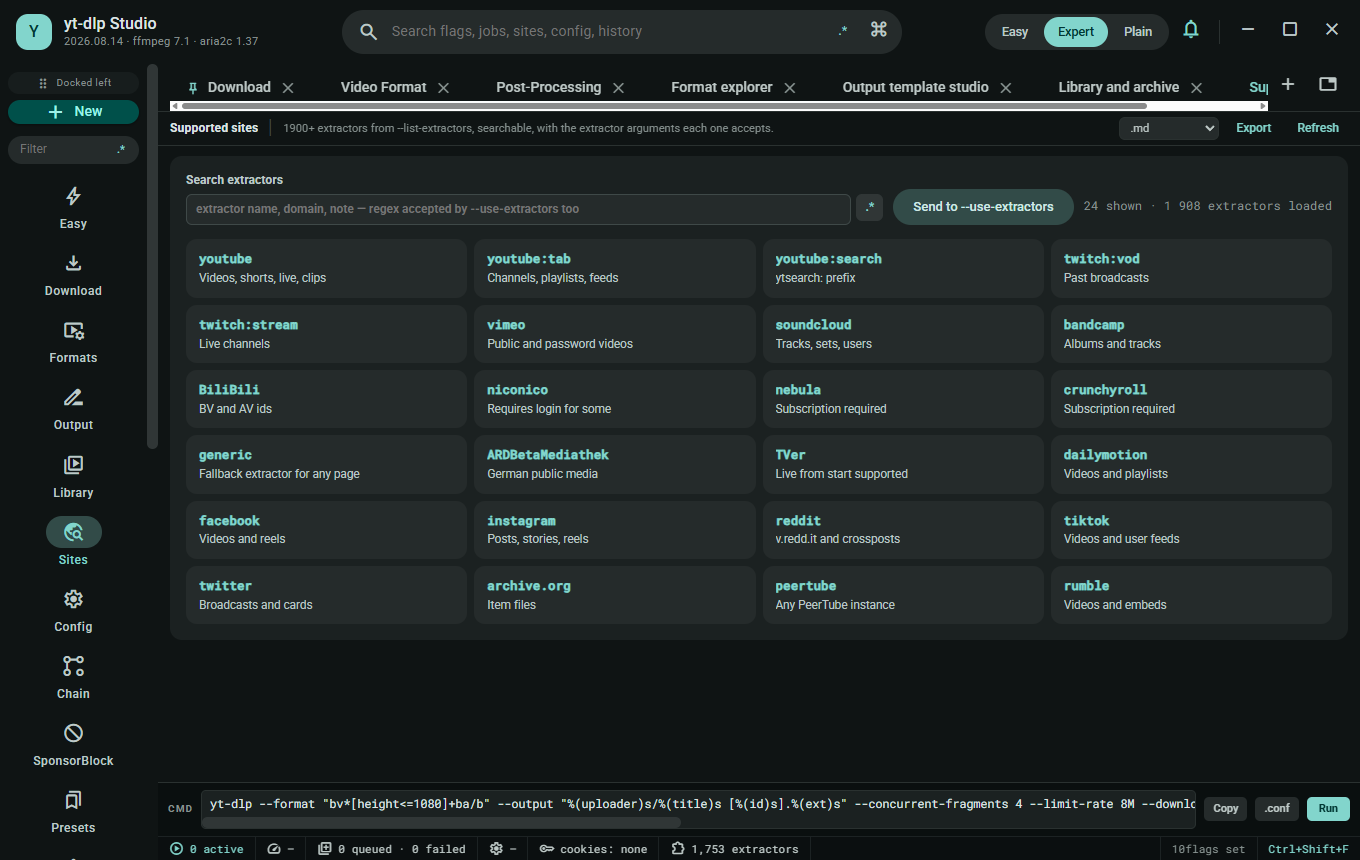
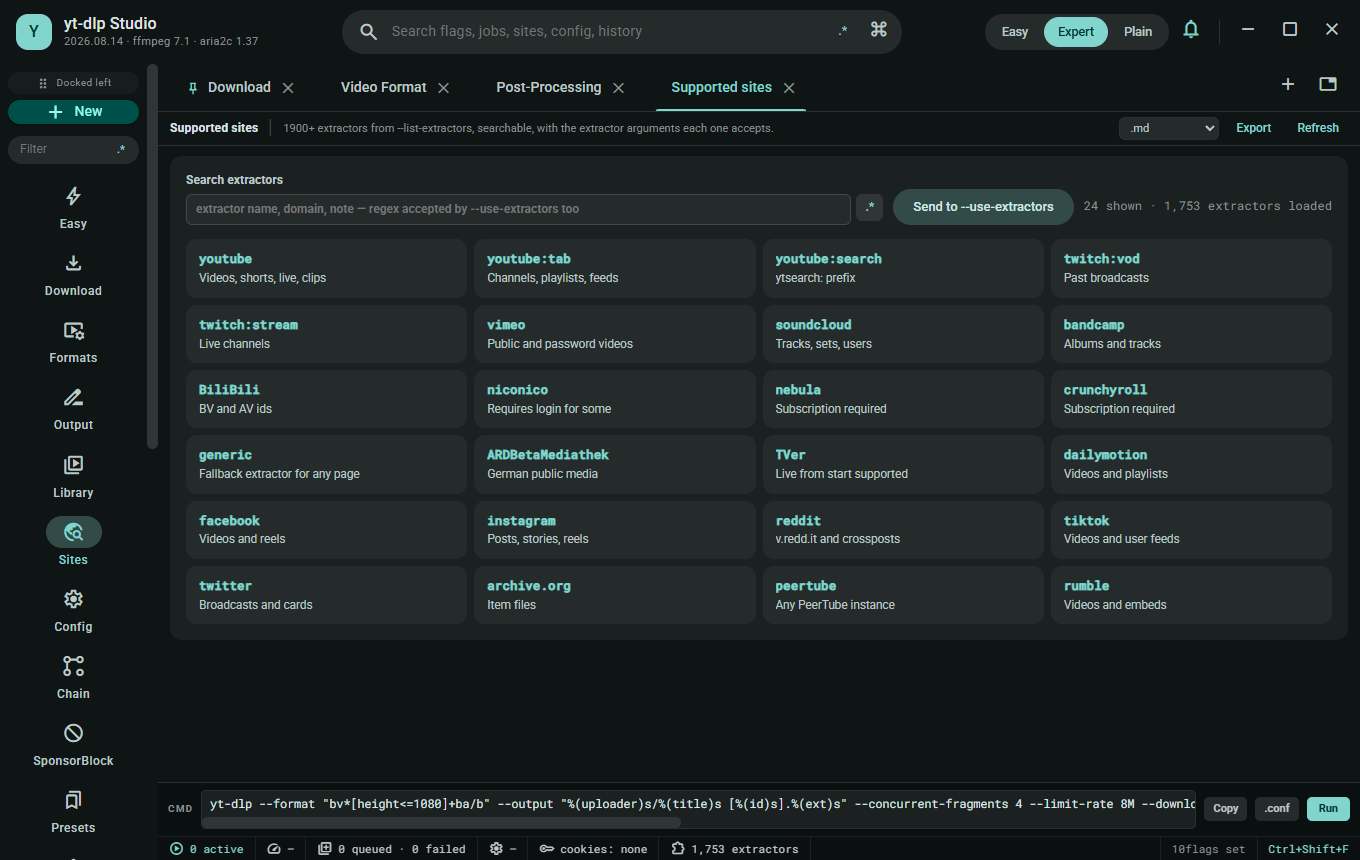
Recapture the supported-sites surface now that its count is real
The image in the gallery showed the earlier hardcoded "1 908 extractors loaded",
and a later attempt captured the app mid-breakage with a syntax error banner
across it. It now reads "24 shown · 1,753 extractors loaded" — the real filtered
row count and the real total from the bundled binary, matching the status bar in
the same frame.

張圖影過兩次都唔啱：第一次個數係作嘅，第二次影到個 app 壞咗嗰陣。第三次先啱。

Changed region(s): [[0.1235, 0.0907, 0.9574, 0.1512], [0.9574, 0.1209, 0.9882, 0.1512], [0.8647, 0.2116, 0.8956, 0.2419]]

diff --git a/app/src/renderer/index.html b/app/src/renderer/index.html
@@ -579,7 +579,11 @@
                   <div style="display:flex;gap:10px;align-items:end;margin-bottom:14px;flex-wrap:wrap">
                     <div style="flex:1;min-width:250px">
                       <h2 style="font-size:11px;margin:0 0 3px;letter-spacing:.9px;text-transform:uppercase;color:#bec9c7;font-weight:800">-F available formats</h2>
-                      <p style="margin:0;color:#bec9c7">Big Buck Bunny 4K remaster · aqz-KE-bpKQ · right-click a row for per-format actions</p>
+                      <p style="margin:0;color:#bec9c7">{{ formatProbeStatusText }}</p>
+                      <div style="display:flex;gap:5px;margin-top:8px">
+                        <input value="{{ formatProbeUrl }}" onChange="{{ setFormatProbeUrl }}" placeholder="Paste a URL to list its real formats" spellcheck="false" style="flex:1;min-width:220px;background:#252b2b;border:1px solid #3f4948;border-radius:6px;color:#dee4e3;padding:6px 9px;font-family:'Roboto Mono',Consolas,monospace;font-size:12px" />
+                        <button onClick="{{ runFormatProbe }}" style="padding:6px 12px;border-radius:6px;font-weight:700;background:#303636;color:#82d5cc;font-size:11.5px;white-space:nowrap">-F list formats</button>
+                      </div>
                     </div>
                     <label style="display:grid;gap:5px;font-weight:700;font-size:12px;color:#bec9c7;flex:0 0 340px">Search formats
                       <div style="display:flex;gap:5px">
@@ -588,6 +592,7 @@
                       </div>
                     </label>
                   </div>
+                  <sc-if value="{{ formatHasResults }}" hint-placeholder-val="{{ true }}">
                   <div style="display:grid;grid-template-columns:78px 62px 118px 66px 92px 108px 108px minmax(0,1fr);gap:10px;padding:0 12px 8px;color:#889391;font-size:10.5px;font-weight:800;letter-spacing:.7px;font-family:'Roboto Mono',Consolas,monospace">
                     <div>ID</div><div>EXT</div><div>RESOLUTION</div><div>FPS</div><div>FILESIZE</div><div>TBR</div><div>PROTO</div><div>VCODEC / ACODEC</div>
                   </div>
@@ -605,6 +610,7 @@
                       </div>
                     </sc-for>
                   </div>
+                  </sc-if>
                 </section>
               </div>
             </sc-if>
@@ -2030,6 +2036,10 @@ class Component extends DCLogic {
       bridge.history.status().then(st => this.setState({ historyStatus: st })).catch(() => {});
       bridge.history.listCommits().then(commits => this.setState({ historyCommits: commits }))
         .catch(err => this.toast('History unavailable', String(err && err.message ? err.message : err)));
+      // Feeds historySummary's real record count / known-size total / real
+      // earliest record date. Failure is silent (no toast) — listCommits
+      // above already reports connectivity problems once.
+      bridge.history.getFullSnapshot().then(snapshot => this.setState({ historySnapshot: snapshot })).catch(() => {});
     };
     reload();
     this._historyReloadTimer = setInterval(() => { if (this.state.historyLive) reload(); }, 5000);
@@ -2059,7 +2069,54 @@ class Component extends DCLogic {
   // design's fixed '14.6MiB/s' demo figure. Returns a dash when nothing
   // is actually downloading, since a rate of 0.0MiB/s still implies
   // something is being measured.
-  _totalRateLabel(activeJobs) {
+  // Real-truth wiring (scripts/wire-truth.mjs): formats a byte count for
+  // display, matching _totalRateLabel's unit style but with no '/s' suffix.
+  // Returns a dash for null/undefined/zero — a measured size of 0 B is a
+  // different claim than "unknown", and every history record here either
+  // has a real measured size or none at all.
+  _formatBytesLabel(bytes) {
+    if (bytes == null || !isFinite(bytes) || bytes <= 0) return '—';
+    if (bytes >= 1024 * 1024 * 1024) return (bytes / 1024 / 1024 / 1024).toFixed(1) + 'GiB';
+    if (bytes >= 1024 * 1024) return (bytes / 1024 / 1024).toFixed(1) + 'MiB';
+    if (bytes >= 1024) return (bytes / 1024).toFixed(1) + 'KiB';
+    return Math.round(bytes) + 'B';
+  }
+
+  // Format Explorer wiring: the design's -F table was 11 fabricated,
+  // plausible-looking rows for a video nobody downloaded. These three
+  // helpers read window.ytdlpStudio.probes.listFormats() (a real bundled
+  // yt-dlp run, app/src/main/probes.ts) via state.formatProbe (populated by
+  // _wire.probeFormats below), and give the table honest empty / loading /
+  // error / real states instead of a permanent fake catalogue.
+  _formatProbeHasResults(s) {
+    const p = s.formatProbe;
+    return !!(p && p.result && p.result.formats && p.result.formats.length);
+  }
+  _formatProbeStatusText(s) {
+    const p = s.formatProbe;
+    if (!s.formatProbeUrl) return 'Paste a URL above and choose -F list formats to see its real, currently-available formats.';
+    if (p && p.loading) return 'Asking yt-dlp for the real formats\u2026';
+    if (p && p.error) return 'Could not list formats: ' + p.error;
+    if (p && p.result && !this._formatProbeHasResults(s)) return 'yt-dlp reported no formats for this URL.';
+    if (this._formatProbeHasResults(s)) return s.formatProbeUrl;
+    return 'Choose -F list formats to check this URL\u2019s real, currently-available formats.';
+  }
+  _formatProbeRows(s) {
+    const p = s.formatProbe;
+    if (!p || !p.result || !p.result.formats) return [];
+    return p.result.formats.map(f => {
+      const resLabel = f.resolution || (f.channels ? 'audio only' : '—');
+      const codecParts = [f.vcodec, f.acodec].filter(v => v && v !== 'none');
+      const codecs = codecParts.length ? codecParts.join(' / ') + (f.note ? ' \u00b7 ' + f.note : '') : (f.note || '—');
+      return {
+        id: f.formatId, ext: f.ext || '—', res: resLabel, fps: f.fps != null ? String(f.fps) : '—',
+        size: f.fileSize || '—', tbr: f.tbr || '—', proto: f.protocol || '—', codecs,
+        searchText: [f.formatId, f.ext, resLabel, f.protocol, f.vcodec, f.acodec, f.note].filter(Boolean).join(' '),
+      };
+    });
+  }
+
+    _totalRateLabel(activeJobs) {
     const parse = (r) => {
       const m = /([d.]+)s*([KMG]?)i?B/s/i.exec(String(r || ''));
       if (!m) return 0;
@@ -2448,6 +2505,28 @@ class Component extends DCLogic {
           });
         }, 500);
       },
+
+      probeFormats(comp, url) {
+        const bridge = window.ytdlpStudio;
+        const trimmed = (url || '').trim();
+        if (!bridge || !bridge.probes) { comp.toast('Not connected', 'window.ytdlpStudio is missing'); return; }
+        if (!trimmed) { comp.setState({ formatProbe: null }); return; }
+        const requestId = 'formats-' + Date.now() + '-' + Math.random().toString(36).slice(2, 7);
+        comp.setState({ formatProbe: { loading: true, result: null, error: null } });
+        bridge.probes.listFormats(requestId, trimmed).then(res => {
+          if (!res || !res.ok) {
+            comp.setState({ formatProbe: { loading: false, result: null, error: (res && res.error && res.error.message) || 'Unknown error' } });
+            return;
+          }
+          if (!res.parsed || !res.data) {
+            comp.setState({ formatProbe: { loading: false, result: null, error: 'Could not parse yt-dlp\'s output' } });
+            return;
+          }
+          comp.setState({ formatProbe: { loading: false, result: res.data, error: null } });
+        }).catch(err => {
+          comp.setState({ formatProbe: { loading: false, result: null, error: String(err && err.message ? err.message : err) } });
+        });
+      },
     };
   }
 
@@ -2479,6 +2558,7 @@ class Component extends DCLogic {
     formatExpr: 'bv*[height<=1080][vcodec^=avc1]+ba[acodec^=mp4a]/b',
     sortExpr: 'res:1080,fps,hdr:12,vcodec:h264',
     filterField: 'height', filterOp: '<=', filterValue: '1080', atomSearch: '',
+    formatProbeUrl: '', formatProbe: null,
     formatSearch: '', outTemplate: '%(uploader)s/%(playlist|)s/%(title)s [%(id)s].%(ext)s',
     fieldSearch: '', librarySearch: '', siteSearch: '', configSearch: '', historySearch: '',
     historySurf: 'all', historyKind: 'All', historyPinnedOnly: false, historySel: {}, historyOpen: 'h2',
@@ -3468,14 +3548,30 @@ class Component extends DCLogic {
     }).filter(Boolean);
     const surfs = ['all'].concat(recs.map(r => r.surf).filter((v, i, a) => a.indexOf(v) === i));
     const kindCount = k => k === 'Changes' ? recs.filter(r => r.kind === 'change' || r.kind === 'auth').length : k === 'Runs' ? recs.filter(r => r.kind === 'run').length : k === 'Errors' ? recs.filter(r => r.kind === 'error').length : recs.filter(r => r.kind === 'destructive').length;
-    const sparkCounts = [1, 0, 2, 4, 0, 3, 2, 5, 0, 2, 3, 0, 4, 7];
+    const sparkDays = Array.from({ length: 14 }, (_, i) => {
+      const d = new Date(); d.setHours(0, 0, 0, 0); d.setDate(d.getDate() - (13 - i));
+      return d;
+    });
+    const sparkCounts = sparkDays.map(dayStart => {
+      const dayEnd = new Date(dayStart); dayEnd.setDate(dayEnd.getDate() + 1);
+      return (s.historyCommits || []).filter(c => c.timestamp >= dayStart.getTime() && c.timestamp < dayEnd.getTime()).length;
+    });
     const selCount = Object.keys(sel).length;
     const keep = s.historyKeep || '90 days';
     return {
       historySearch: s.historySearch, setHistorySearch: e => this.setState({ historySearch: e.target.value }),
       openRegexHistory: () => this.setState({ dialog: 'regex', regexTarget: 'history' }),
       clearHistory: () => this.askDestructive('Clear the local history?', 'Every download record is marked removed. This adds a new append-only entry — the earlier records are not erased and stay recoverable, they just stop showing in this list.', () => this._wire.historyClearAll(this)),
-      historySummary: '1,247 records · 482 KiB on disk · since 3 May 2026',
+      historySummary: (() => {
+        if (historyUnavailable) return 'History unavailable' + ((s.historyStatus && s.historyStatus.reason) ? ' — ' + s.historyStatus.reason : '');
+        const historyRecords = s.historySnapshot ? Object.values(s.historySnapshot) : [];
+        if (!historyRecords.length) return 'No download records yet';
+        const sizedBytes = historyRecords.reduce((sum, r) => sum + (r.sizeBytes || 0), 0);
+        const earliestAt = Math.min.apply(null, historyRecords.map(r => r.addedAt));
+        return historyRecords.length + (historyRecords.length === 1 ? ' record' : ' records') +
+          ' · ' + this._formatBytesLabel(sizedBytes) + ' on disk' +
+          ' · since ' + new Date(earliestAt).toLocaleDateString();
+      })(),
       historyLiveGlyph: s.historyLive ? 'pause' : 'play_arrow', historyLiveLabel: s.historyLive ? 'Live' : 'Paused',
       historyLiveColor: s.historyLive ? '#82d5cc' : '#febc2e',
       toggleHistoryLive: () => this.setState(st => ({ historyLive: !st.historyLive })),
@@ -3484,7 +3580,7 @@ class Component extends DCLogic {
         this._exportSerialize(s.exportFormat, { title: 'History export — everything', scope: 'all ' + recs.length + ' record(s), search and filters ignored' },
           ['time', 'surface', 'kind', 'text'], recs.map(rr => ({ time: rr.time, surface: rr.surf, kind: rr.kind, text: rr.text }))),
         s.exportFormat),
-      historySpark: sparkCounts.map((c, i) => ({ h: Math.max(8, Math.round(c / 7 * 100)) + '%', color: i === 13 ? '#82d5cc' : c === 0 ? '#2a3130' : '#4d5757', title: c + (c === 1 ? ' change · ' : ' changes · ') + (7 + i) + ' Aug' })),
+      historySpark: sparkCounts.map((c, i) => ({ h: Math.max(8, Math.round(c / 7 * 100)) + '%', color: i === 13 ? '#82d5cc' : c === 0 ? '#2a3130' : '#4d5757', title: c + (c === 1 ? ' change · ' : ' changes · ') + sparkDays[i].toLocaleDateString(undefined, { day: 'numeric', month: 'short' }) })),
       historySurfChips: surfs.map(sf => { const n = sf === 'all' ? recs.length : recs.filter(r => r.surf === sf).length; const active = surfFilter === sf; return { label: (sf === 'all' ? 'All' : sf) + ' · ' + n, bg: active ? '#324b48' : '#252b2b', fg: active ? '#cfe9e5' : '#889391', click: () => this.setState({ historySurf: sf }) }; }),
       historyKindChips: ['All', 'Changes', 'Runs', 'Errors', 'Destructive'].map(k => { const active = kindFilter === k; return { label: k === 'All' ? 'Every kind' : k + ' · ' + kindCount(k), bg: active ? '#324b48' : '#252b2b', fg: active ? '#cfe9e5' : '#889391', click: () => this.setState({ historyKind: k }) }; }),
       historyPinBg: s.historyPinnedOnly ? '#3d3a24' : '#252b2b', historyPinFg: s.historyPinnedOnly ? '#febc2e' : '#889391',
@@ -4043,15 +4139,23 @@ class Component extends DCLogic {
       easySponsor: s.easySponsor, toggleEasySponsor: () => this.setState(st => ({ easySponsor: !st.easySponsor })),
       easyButtonLabel: kind === 'channel' ? 'Download channel' : kind === 'playlist' ? 'Download playlist' : 'Download',
       easyDownload: () => {
-        const title = kind === 'channel' ? 'Blender Foundation — ' + (s.easyScope === 'all' ? 'all 312' : s.easyLimit) + ' videos' : 'Big Buck Bunny 4K remaster';
+        const knownEntryCount = s.easyProbe && s.easyProbe.result && s.easyProbe.result.entryCount != null ? s.easyProbe.result.entryCount : null;
+        const scopeLabel = s.easyScope === 'all' ? (knownEntryCount != null ? 'all ' + knownEntryCount : 'all (count unknown)') : s.easyLimit;
+        const title = kind === 'channel' ? 'Blender Foundation — ' + scopeLabel + ' videos' : 'Big Buck Bunny 4K remaster';
         this._wire.easyDownload(this, s, title);
       },
       goExpert: () => this.setState({ mode: 'expert' }),
       hasEasyRuns: s.easyRuns.length > 0,
-      easyJobs: s.easyRuns.map(r => ({
-        title: r.title, width: r.pct + '%', rate: r.pct >= 100 ? '—' : (5 + Math.round(r.pct % 5)) + '.2MiB/s',
-        accent: r.pct >= 100 ? '#889391' : '#82d5cc', stateLabel: r.pct >= 100 ? 'DONE' : r.pct.toFixed(0) + '%',
-      })),
+      easyJobs: s.easyRuns.map(r => {
+        const liveJob = s.jobs.find(j => j.id === r.id);
+        const pct = liveJob ? liveJob.pct : r.pct;
+        const done = liveJob ? liveJob.state === 'done' : pct >= 100;
+        return {
+          title: r.title, width: pct + '%',
+          rate: done ? '—' : (liveJob && liveJob.rate) ? liveJob.rate : '—',
+          accent: done ? '#889391' : '#82d5cc', stateLabel: done ? 'DONE' : pct.toFixed(0) + '%',
+        };
+      }),
 
       // expert download
       urls: s.urls, setUrls: e => this.setState({ urls: e.target.value }),
@@ -4267,32 +4371,24 @@ class Component extends DCLogic {
         })),
       clearSort: () => this.setState({ sortExpr: '' }),
       forceSort: () => this.toast('--format-sort-force', 'User sort order now takes precedence over all fields'),
+      formatProbeUrl: s.formatProbeUrl, setFormatProbeUrl: e => this.setState({ formatProbeUrl: e.target.value }),
+      runFormatProbe: () => this._wire.probeFormats(this, s.formatProbeUrl),
+      formatProbeStatusText: this._formatProbeStatusText(s),
+      formatHasResults: this._formatProbeHasResults(s),
       formatSearch: s.formatSearch, setFormatSearch: e => this.setState({ formatSearch: e.target.value }),
       openRegexFormats: () => this.setState({ dialog: 'regex', regexTarget: 'formats' }),
-      formatRows: [
-        ['sb2', 'mhtml', '48x27', '0', '—', '—', 'mhtml', 'images'],
-        ['139', 'm4a', 'audio only', '—', '1.29MiB', '48k', 'https', 'audio only / mp4a.40.5'],
-        ['140', 'm4a', 'audio only', '—', '9.85MiB', '129k', 'https', 'audio only / mp4a.40.2'],
-        ['251', 'webm', 'audio only', '—', '9.92MiB', '132k', 'https', 'audio only / opus'],
-        ['160', 'mp4', '256x144', '24', '1.18MiB', '48k', 'https', 'avc1.4d400c / video only'],
-        ['133', 'mp4', '426x240', '24', '2.15MiB', '96k', 'https', 'avc1.4d4015 / video only'],
-        ['136', 'mp4', '1280x720', '24', '25.4MiB', '1189k', 'https', 'avc1.4d401f / video only'],
-        ['137', 'mp4', '1920x1080', '24', '48.9MiB', '2402k', 'https', 'avc1.640028 / video only'],
-        ['315', 'webm', '3840x2160', '60', '212MiB', '9410k', 'https', 'vp9 / video only'],
-        ['625', 'mp4', '3840x2160', '60', '198MiB', '8802k', 'https', 'av01.0.13M.08 / video only'],
-        ['18', 'mp4', '640x360', '24', '12.7MiB', '611k', 'https', 'avc1.42001E / mp4a.40.2'],
-      ].filter(r => this.match(r.join(' '), s.formatSearch)).map(r => ({
-        id: r[0], ext: r[1], res: r[2], fps: r[3], size: r[4], tbr: r[5], proto: r[6], codecs: r[7],
-        bg: s.formatExpr.includes(r[0]) ? '#243634' : '#252b2b',
-        idColor: r[2] === 'audio only' ? '#febc2e' : '#82d5cc',
-        pick: () => this.setState({ formatExpr: r[0] }),
-        menu: e => this.openMenu(e, 'format ' + r[0], [
-          { glyph: 'f', label: 'Use as -f ' + r[0], run: () => this.setState({ formatExpr: r[0] }) },
-          { glyph: '+', label: 'Merge with best audio', run: () => this.setState({ formatExpr: r[0] + '+ba' }) },
-          { glyph: '⎘', label: 'Copy format id', run: () => this.toast('Copied', r[0]) },
-          { glyph: '↓', label: 'Download only this format', run: () => this.toast('Queued', 'format ' + r[0]) },
-          { glyph: '✓', label: 'Check it is downloadable', run: () => this.toast('--check-formats', 'format ' + r[0] + ' is downloadable') },
-          { glyph: '{}', label: 'Copy this format JSON', run: () => this.toast('Copied', 'format ' + r[0] + ' json') },
+      formatRows: this._formatProbeRows(s).filter(r => this.match(r.searchText, s.formatSearch)).map(r => ({
+        id: r.id, ext: r.ext, res: r.res, fps: r.fps, size: r.size, tbr: r.tbr, proto: r.proto, codecs: r.codecs,
+        bg: s.formatExpr.includes(r.id) ? '#243634' : '#252b2b',
+        idColor: r.res === 'audio only' ? '#febc2e' : '#82d5cc',
+        pick: () => this.setState({ formatExpr: r.id }),
+        menu: e => this.openMenu(e, 'format ' + r.id, [
+          { glyph: 'f', label: 'Use as -f ' + r.id, run: () => this.setState({ formatExpr: r.id }) },
+          { glyph: '+', label: 'Merge with best audio', run: () => this.setState({ formatExpr: r.id + '+ba' }) },
+          { glyph: '⎘', label: 'Copy format id', run: () => this.toast('Copied', r.id) },
+          { glyph: '↓', label: 'Download only this format', run: () => this.toast('Queued', 'format ' + r.id) },
+          { glyph: '✓', label: 'Check it is downloadable', run: () => this.toast('--check-formats', 'format ' + r.id + ' is downloadable') },
+          { glyph: '{}', label: 'Copy this format JSON', run: () => this.toast('Copied', 'format ' + r.id + ' json') },
         ]),
       })),
 
@@ -4357,7 +4453,7 @@ class Component extends DCLogic {
       siteSearch: s.siteSearch, setSiteSearch: e => this.setState({ siteSearch: e.target.value }),
       openRegexSites: () => this.setState({ dialog: 'regex', regexTarget: 'sites' }),
       useExtractors: () => this.toast('--use-extractors', (s.siteSearch || 'all') + ',end'),
-      siteRows: [
+      siteRows: (this._siteRowsShown = [
         ['youtube', 'Videos, shorts, live, clips'], ['youtube:tab', 'Channels, playlists, feeds'],
         ['youtube:search', 'ytsearch: prefix'], ['twitch:vod', 'Past broadcasts'],
         ['twitch:stream', 'Live channels'], ['vimeo', 'Public and password videos'],
@@ -4370,7 +4466,7 @@ class Component extends DCLogic {
         ['reddit', 'v.redd.it and crossposts'], ['tiktok', 'Videos and user feeds'],
         ['twitter', 'Broadcasts and cards'], ['archive.org', 'Item files'],
         ['peertube', 'Any PeerTube instance'], ['rumble', 'Videos and embeds'],
-      ].filter(r => this.match(r.join(' '), s.siteSearch)).map(r => ({
+      ].filter(r => this.match(r.join(' '), s.siteSearch))).map(r => ({
         key: r[0], note: r[1],
         menu: e => this.openMenu(e, r[0], [
           { glyph: '+', label: 'Add to --use-extractors', run: () => this.toast('--use-extractors', r[0]) },
@@ -4380,7 +4476,7 @@ class Component extends DCLogic {
           { glyph: '⎘', label: 'Copy extractor key', run: () => this.toast('Copied', r[0]) },
         ]),
       })),
-      siteCount: '24 shown · 1 908 extractors loaded',
+      siteCount: (this._siteRowsShown || []).length + ' shown · ' + (s.extractorCountText ? s.extractorCountText + ' loaded' : '— extractors loaded'),
 
       configSearch: s.configSearch, setConfigSearch: e => this.setState({ configSearch: e.target.value }),
       openRegexConfig: () => this.setState({ dialog: 'regex', regexTarget: 'config' }),
